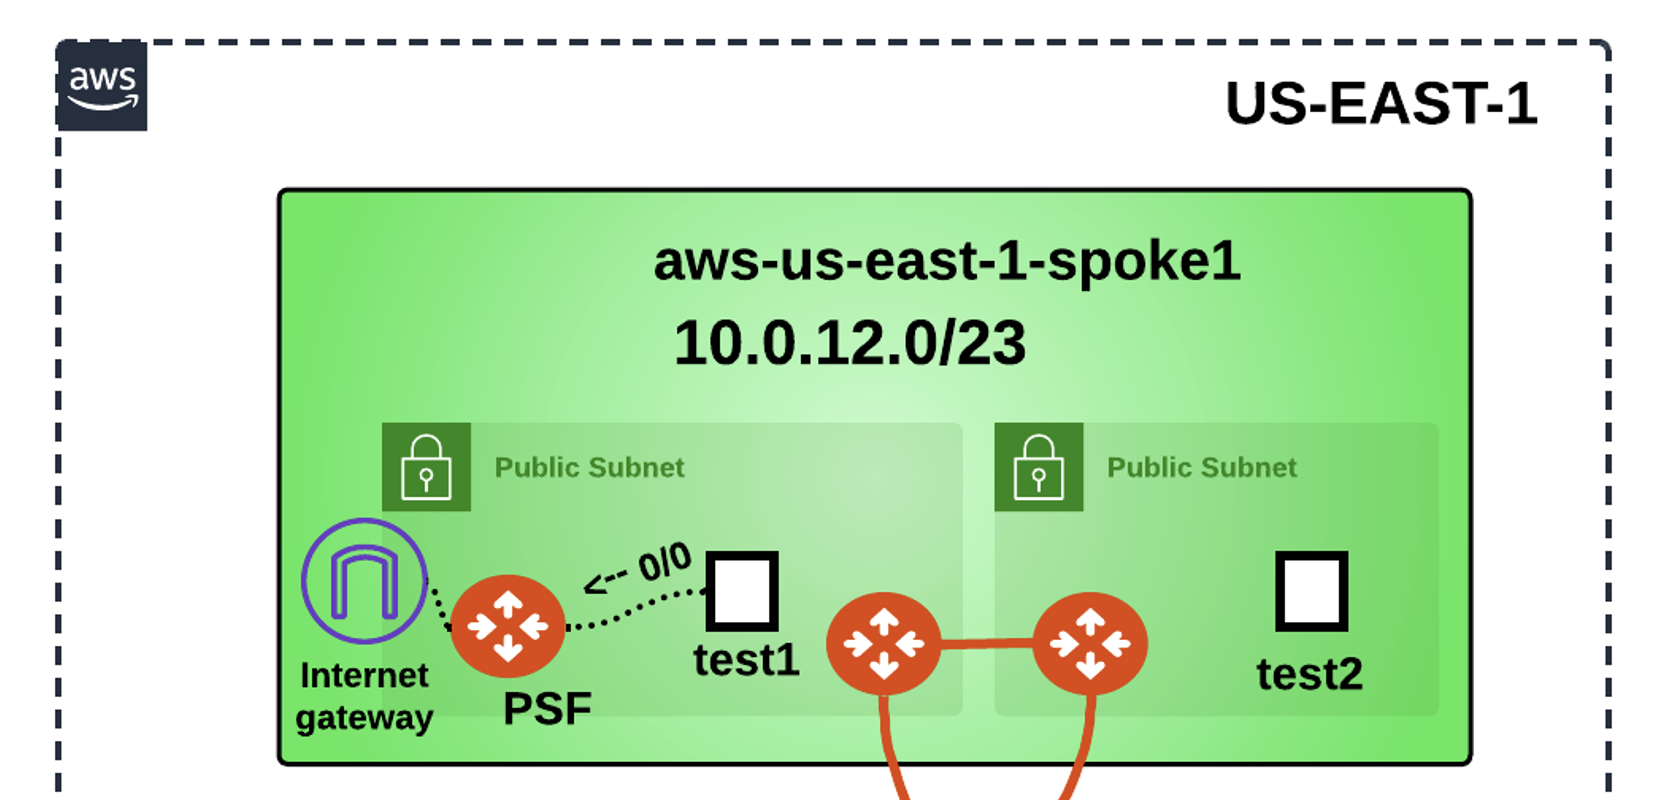
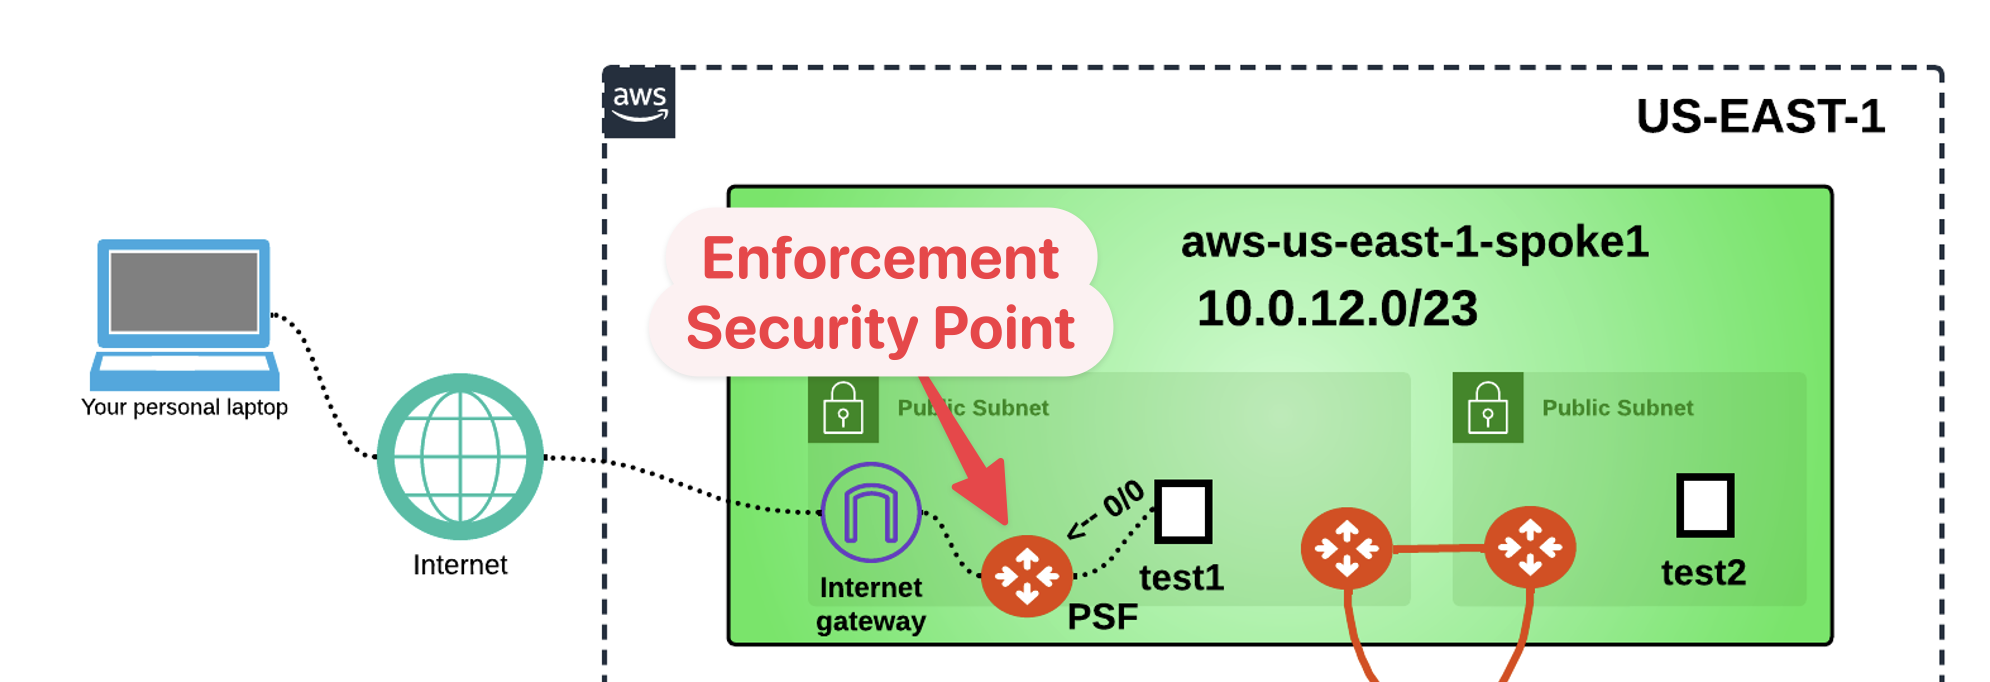
update for pro

diff --git a/ace_pro/docs/lab9.md b/ace_pro/docs/lab9.md
@@ -195,6 +195,13 @@ Ensure these parameters are entered in the pop-up window `"Create SmartGroup"`:
 - **Virtual Machines - Matches all conditions (AND)**: <span style='color:#479608'>Name</span>
 - **CSP Tag Value**: <span style='color:#479608'>aws-us-east-1-spoke1-test1</span>
 
+```{figure} images/lab9-smart00331.png
+---
+align: center
+---
+Name
+```
+
 ```{figure} images/lab9-smart002.png
 ---
 align: center
@@ -439,7 +446,7 @@ align: center
 Malicious ip
 ```
 
-However, you will gradually start to notice that traffic to **US EAST-2** will begin to fail.
+However, you will progressively see also failures in traffic routed to **US EAST-2**.
 
 ```{figure} images/lab9-gatus622.png
 ---
@@ -451,17 +458,19 @@ US EAST-2
 
 ### 8.2 Connectivity Testing Using the SSH Client <span style='color:#33ECFF'>(BONUS)</span></summary>
 
-```{important}
-Before verifying from your SSH client, please re-establish the SSH connection to **_aws-us-east-1-spoke1-test1_**. Note that applying the previous DCF rules will terminate the current SSH session. Although the connection is made through the IGW, it will then route via the Spoke Gateway, where the Distributed Cloud Firewall rules will be enforced.
-```
+Let's verify that traffic to the malicious IP address has been successfully blocked, including via the SSH client.
 
+```{caution}
+If you accidentally close your SSH session and try to log in again to the aws-us-east-1-spoke1-test1 public IP, the SSH connection will fail. With the PSF deployed and the Distributed Cloud Firewall Policy enforced, the PSF is an `Enforcement Security Point` like other Spoke Gateways. SSH from your laptop will be blocked unless you create a policy that allows SSH from your public IP.
 ```{figure} images/lab9-igw.png
 ---
 height: 250px
 align: center
 ---
-IGW and Spoke GW
+Enforcement Security Point
 ```
+
+
 
 #### 8.2.1 SSH to aws-us-east1-spoke1-test1
 
